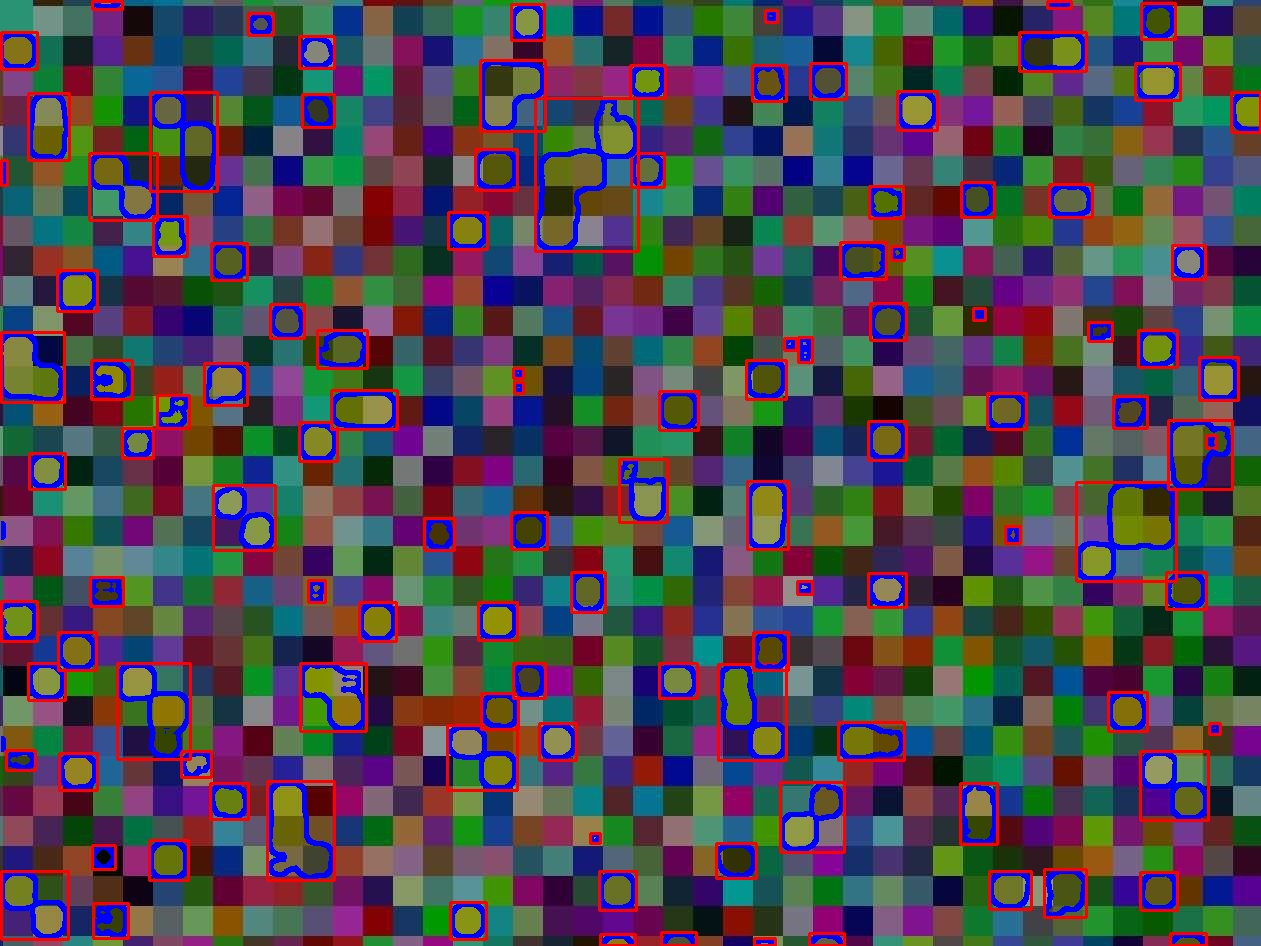
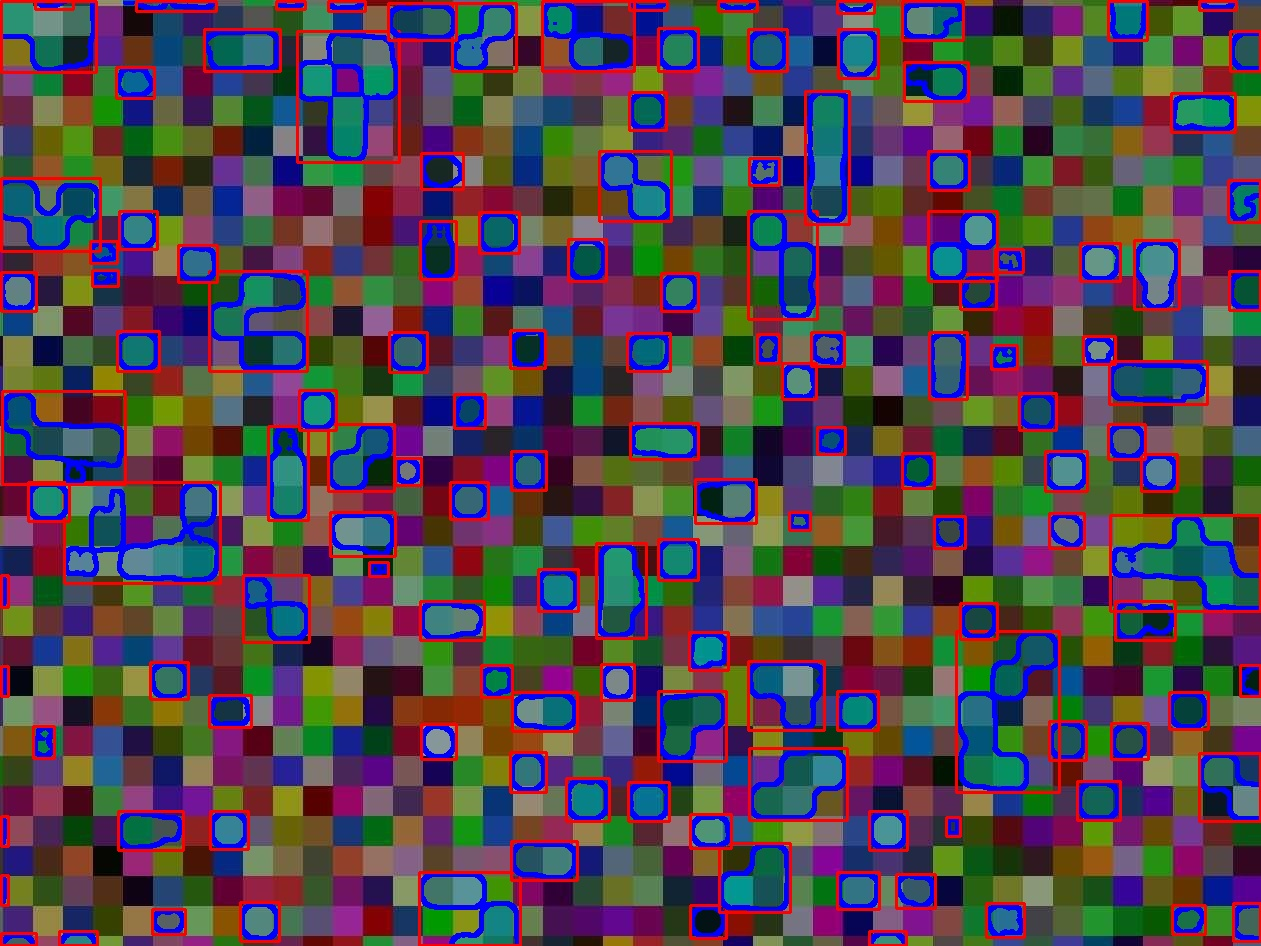
DetectApproxSquare apparently detects rectangles and warns when no squares are detected. Need to try with more examples and input_images.

diff --git a/DetectApproxSquare.java b/DetectApproxSquare.java
@@ -1,0 +1,251 @@
+/*
+ * Using JavaCV to approximate colored shape to a rectangle accoring to the color picked in the control card
+ * SOURCE: http://stackoverflow.com/questions/12106307/how-to-get-x-y-coordinates-of-extracted-objects-in-javacv
+ * SOURCE: http://stackoverflow.com/questions/11795691/javacv-warning-sign-detection
+ */
+
+import java.awt.Color;
+import org.bytedeco.javacpp.*;
+import org.bytedeco.javacpp.opencv_core.CvRect;
+import org.bytedeco.javacpp.opencv_core.CvScalar;
+import org.bytedeco.javacpp.opencv_core.IplImage;
+
+import static org.bytedeco.javacpp.opencv_core.*;
+import static org.bytedeco.javacpp.opencv_imgproc.*;
+import static org.bytedeco.javacpp.opencv_highgui.*;
+
+public class DetectApproxSquare {
+
+	double iLowH;
+	double iHighH;
+	String filename = "";
+	int size = 0;
+	IplImage orgImg;
+	IplImage imgHSV;
+	IplImage imgThresh;
+	IplImage newImg;
+
+	public static void main(String args[]) {
+		new DetectApproxSquare().main();
+	}
+
+	public void main() {
+
+		// creates memory storage that will contain all the dynamic data
+		CvMemStorage storage = null;
+		storage = cvCreateMemStorage(0);
+
+		// filename = "ColorFades.jpg";
+		// filename = "ColorWall.jpg";
+		// filename = "Phone.jpg";
+		// filename = "Pixels.jpg";
+		// filename = "Points.jpg";
+		filename = "Squares.jpg";
+
+		// loads the image
+		orgImg = cvLoadImage(filename);
+
+		// size of the "control card"
+		size = 15;
+
+		// gets the mean color in the "control card"
+		CvScalar detected_mean = mean(orgImg, 0, 0, size, size);
+
+		// gets the color from the "control card" and recognizes it
+		getControlColor(detected_mean);
+
+		imgHSV = cvCreateImage(cvGetSize(orgImg), 8, 3);
+		imgThresh = cvCreateImage(cvGetSize(orgImg), 8, 1);
+
+		// sets Saturation and Brightness to the whole spectrum
+		double iLowS = 1;
+		double iHighS = 254;
+
+		double iLowV = 1;
+		double iHighV = 254;
+
+		// converts the color from BGR to HSV
+		cvCvtColor(orgImg, imgHSV, CV_BGR2HSV);
+
+		// checks the parts of the image in the range of the color chosen
+		cvInRangeS(imgHSV, cvScalar(iLowH, iLowS, iLowV, 0),
+				cvScalar(iHighH, iHighS, iHighV, 0), imgThresh);
+		// smooths the image according to the different parameters
+		cvSmooth(imgThresh, imgThresh, CV_MEDIAN, 15, 0, 0, 0);
+
+		// temporary saves the HSV image (NO IDEA WHY I HAVE TO)
+		cvSaveImage("Temp_HSV.jpg", imgThresh);
+
+		// re-loads the image (otherwise "ASSERTION FAILED")
+		newImg = cvLoadImage("Temp_HSV.jpg");
+
+		// finds the squares
+		findSquares(newImg, storage);
+
+		// releases the images
+		cvReleaseImage(orgImg);
+		cvReleaseImage(imgThresh);
+		cvReleaseImage(imgHSV);
+		cvReleaseImage(newImg);
+
+		// clears the memory storage
+		cvClearMemStorage(storage);
+
+	}
+
+	public void getControlColor(CvScalar color) {
+
+		int r, g, b, h;
+
+		// System.out.println(color);
+
+		// gets the RGB components from the detected color in the "control card"
+		r = (int) color.red();
+		g = (int) color.green();
+		b = (int) color.blue();
+
+		System.out.println("The RGB color detected is: (" + r + ", " + g + ", " + b + ")");
+		System.out.println();
+
+		// converts the RGB color to HSV values - only H matters (apparently)
+		float[] hsv = Color.RGBtoHSB(r, g, b, null);
+		h = (int) (hsv[0] * 180);
+		// s = (int) (hsv[1] * 100);
+		// v = (int) (hsv[2] * 100);
+
+		// orange
+		if (h > 0 && h <= 22) {
+			iLowH = 0;
+			iHighH = 22;
+		}
+		// yellow
+		if (h > 22 && h <= 38) {
+			iLowH = 22;
+			iHighH = 38;
+		}
+		// green
+		if (h > 38 && h <= 75) {
+			iLowH = 38;
+			iHighH = 75;
+		}
+		// light blue
+		if (h > 75 && h <= 100) {
+			iLowH = 75;
+			iHighH = 100;
+		}
+		// blue
+		if (h > 100 && h <= 130) {
+			iLowH = 100;
+			iHighH = 130;
+		}
+		// violet
+		if (h > 130 && h <= 160) {
+			iLowH = 130;
+			iHighH = 160;
+		}
+		// red
+		if (h > 160 && h <= 180) {
+			iLowH = 160;
+			iHighH = 180;
+		}
+
+	}
+
+	// returns sequence of squares detected on the image and stores it in the
+	// memory storage
+	public void findSquares(IplImage img, CvMemStorage storage) {
+
+		IplImage gry = cvCreateImage(cvGetSize(orgImg), 8, 1);
+
+		// reloads the original image
+		IplImage cpy = cvLoadImage(filename);
+
+		// gets the HSV image passed and converts to grayscale
+		cvCvtColor(img, gry, CV_BGR2GRAY);
+		cvThreshold(gry, gry, 200, 255, CV_THRESH_BINARY);
+		cvAdaptiveThreshold(gry, gry, 255, CV_ADAPTIVE_THRESH_MEAN_C,
+				CV_THRESH_BINARY_INV, 11, 5);
+
+		CvSeq contours = new CvContour(null);
+		CvSeq cont = new CvSeq();
+
+		// finds the contours of the figures in the grayscale image
+		cvFindContours(gry, storage, contours, Loader.sizeof(CvContour.class),
+				CV_RETR_CCOMP, CV_CHAIN_APPROX_NONE, new CvPoint());
+
+		// counts the contours
+		int count = 1;
+
+		//checks if there are rectangles detected
+		if (contours.address() == 0)
+			System.out.println("No rectangles detected!");
+
+		//in this case, the loop can work
+		else {
+			// loops around the contours
+			for (cont = contours; cont != null; cont = cont.h_next()) {
+
+				// draws the contours of the identified colored shape
+				CvScalar color = CvScalar.BLUE;
+				cvDrawContours(cpy, cont, color, CV_RGB(0, 0, 0), -1,
+						CV_FILLED, 8, cvPoint(0, 0));
+
+				// creates the bounding rectangle around the contours
+				CvRect sq = cvBoundingRect(cont, 0);
+
+				// checks if the shape is too small, in that case it is not
+				// drawn
+				if ((sq.height() > 5) && (sq.width() > 5)) {
+
+					// gets the coordinates of the 4 points of the rectangle
+					CvPoint tl = new CvPoint();
+					tl.x(sq.x());
+					tl.y(sq.y());
+
+					CvPoint tr = new CvPoint();
+					tr.x(sq.x() + sq.width());
+					tr.y(sq.y());
+
+					CvPoint br = new CvPoint();
+					br.x(sq.x() + sq.width());
+					br.y(sq.y() + sq.height());
+
+					CvPoint bl = new CvPoint();
+					bl.x(sq.x());
+					bl.y(sq.y() + sq.height());
+
+					System.out.println("Contour " + count);
+					System.out.println("Coordinates: " + tl + tr + br + bl);
+					System.out.println("");
+
+					// draws the rectangle
+					cvRectangle(cpy, tl, br, CV_RGB(255, 0, 0), 2, 8, 0);
+
+					// increases the contours counter
+					count++;
+				}
+			}
+
+			// saves the resultant image
+			cvSaveImage("Rect_" + filename, cpy);
+
+			cvReleaseImage(cpy);
+			cvReleaseImage(gry);
+		}
+
+		return;
+	}
+
+	CvScalar mean(IplImage orgImg, int x, int y, int width, int height) {
+
+		// get current ROI so that the image's roi is not changed by calling
+		CvRect old_roi = cvGetImageROI(orgImg);
+		cvSetImageROI(orgImg, cvRect(x, y, width, height));
+		CvScalar c = cvAvg(orgImg);
+		cvSetImageROI(orgImg, old_roi); // reset old roi
+		// System.out.println(c);
+		return c;
+
+	}
+
+}

diff --git a/ApproximateSquare.java b/ApproximateSquare.java
@@ -1,3 +1,9 @@
+/*
+ * Using JavaCV to approximate colored shape to a rectangle
+ * SOURCE: http://stackoverflow.com/questions/12106307/how-to-get-x-y-coordinates-of-extracted-objects-in-javacv
+ * SOURCE: http://stackoverflow.com/questions/11795691/javacv-warning-sign-detection
+ */
+
 import java.util.Scanner;
 
 import org.bytedeco.javacpp.*;

diff --git a/SquareDetector.java b/SquareDetector.java
@@ -1,6 +1,6 @@
 /*
  * Using JavaCV to detect the squares in an image
- * SOURCE: https://www.digitalinferno.com/wiki/attach/JavaCVSquareDetector/Square.java
+ * SOURCE: https://github.com/bytedeco/javacv/blob/master/samples/Square.java
  */
 
 import org.bytedeco.javacpp.*;
